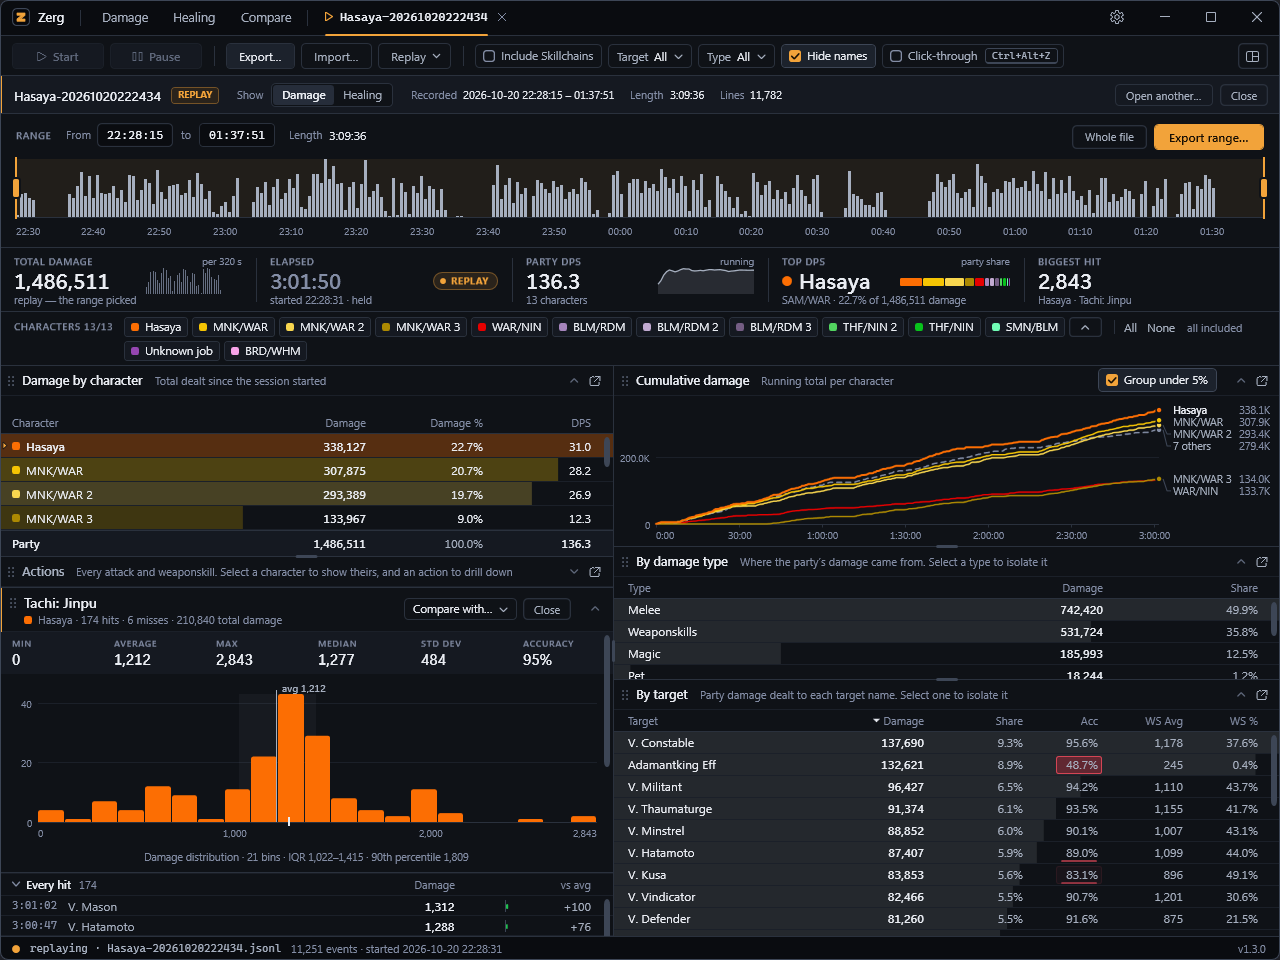
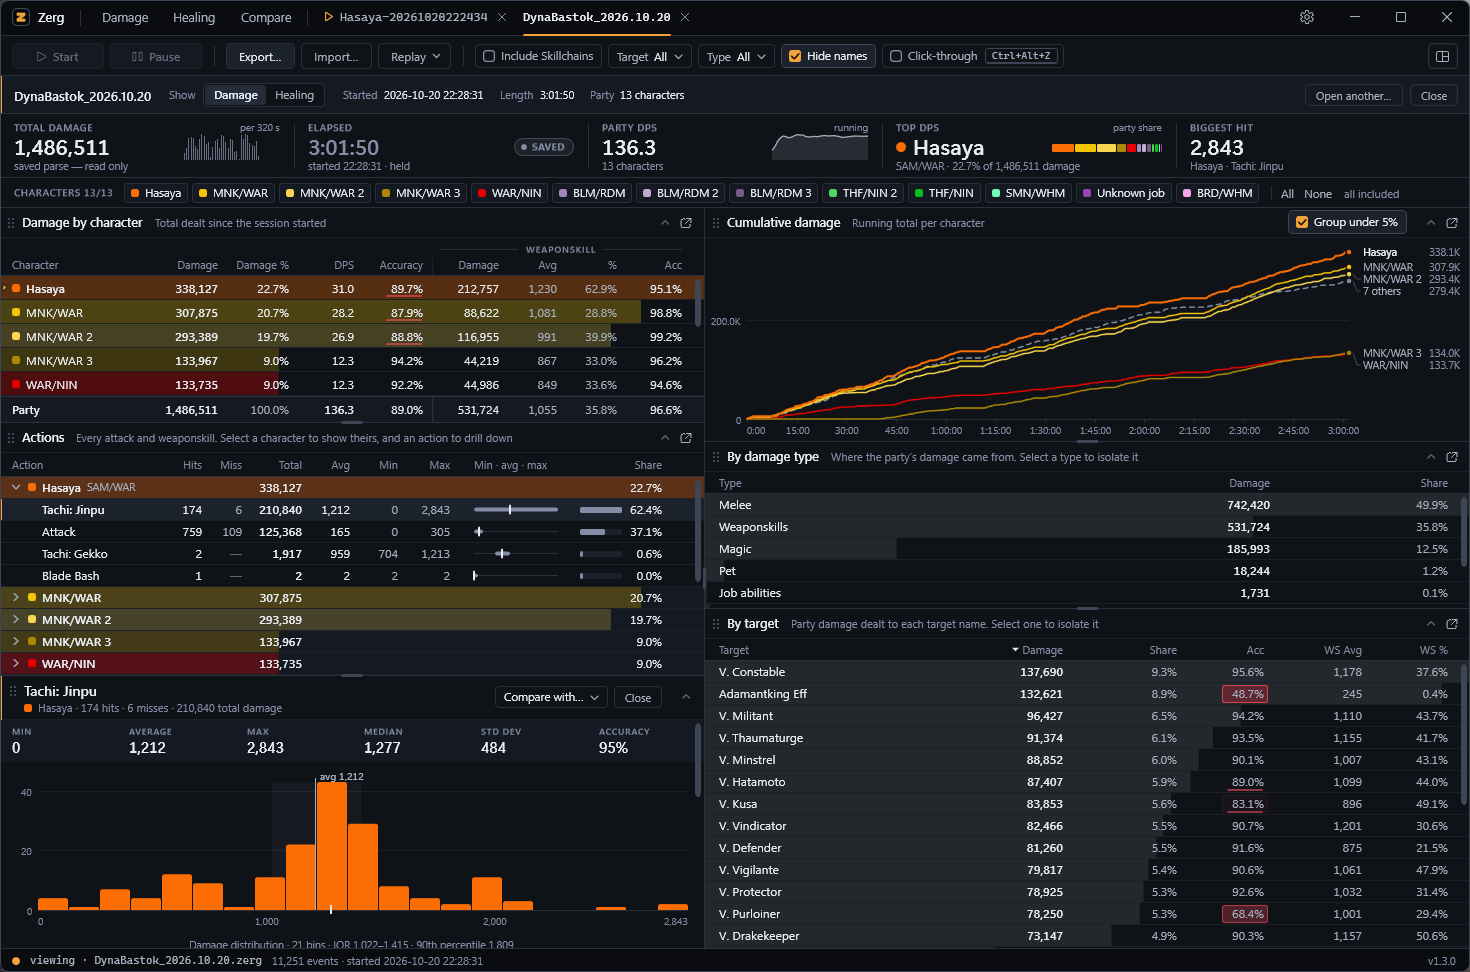
README Changes

diff --git a/README.md b/README.md
@@ -66,7 +66,7 @@ passes to the game.
 
 ### Session overview
 
-![Zerg's Damage view of a replayed three-hour event file: the file's activity with the whole file selected, then total damage, elapsed time, Party DPS, top DPS and biggest hit, above the character table, a weaponskill's hit distribution, cumulative damage, and damage by type and by target](assets/screenshots/damage-window.png)
+![Zerg's Damage view of a saved three-hour session: total damage, elapsed time, Party DPS, top DPS and biggest hit, above the Damage by character table with its weaponskill figures, one character's actions, a weaponskill's hit distribution, cumulative damage, and damage by type and by target](assets/screenshots/damage-window.png)
 
 The band across the top summarises the session: total damage, elapsed time,
 Party DPS, the top contributor and the biggest single hit.
@@ -130,24 +130,20 @@ biggest heal.
 
 ![Two sessions compared: each run's name, start and length, and A's and B's total damage, length, Party DPS, accuracy, weaponskill and skillchain damage, with the change in each](assets/screenshots/compare-summary.png)
 
-Two sessions can be loaded as A (the baseline) and B: two saved sessions, or
-one saved session and the session being recorded. Every figure then shows
-the change from A to B, by character or by job, by target and by damage
-type, for damage or for healing.
+Load two sessions as A and B, saved or in progress, and every figure shows
+the change from A to B, for damage or healing: by character or job, target
+and damage type.
 
 ![One character's actions compared between two runs, with A's and B's hits on one histogram beside their hits, median, average, 90th percentile, maximum, standard deviation and critical hit rate](assets/screenshots/compare-actions.png)
 
-Expanding a character compares each of their actions across the two runs.
-Opening an action places both runs' hits on one histogram, next to a table of
-their median, average, 90th percentile, maximum, standard deviation and
-critical hit rate. This measures the effect of a change in equipment or
-weaponskill choice. An action can also be compared against a different
-action, such as one weaponskill against another.
+Open an action to see both runs' hits on one histogram, with their
+statistics side by side: the measure of a change in equipment or
+weaponskill.
 
 ![Two different weaponskills compared within one session: MNK/WAR's Raging Fists (A) against Hasaya's Tachi: Jinpu (B), with both actions' hits on one histogram beside their hits, accuracy, min, median, average, 90th percentile, max and standard deviation, and the change from A to B](assets/screenshots/compare-weaponskills.png)
 
-The same pairing works within a single session, shown here as one
-character's Raging Fists against another's Tachi: Jinpu.
+Any two actions can be paired, in one session or across two, such as one
+weaponskill against another.
 
 ### Replay of recorded sessions
 
